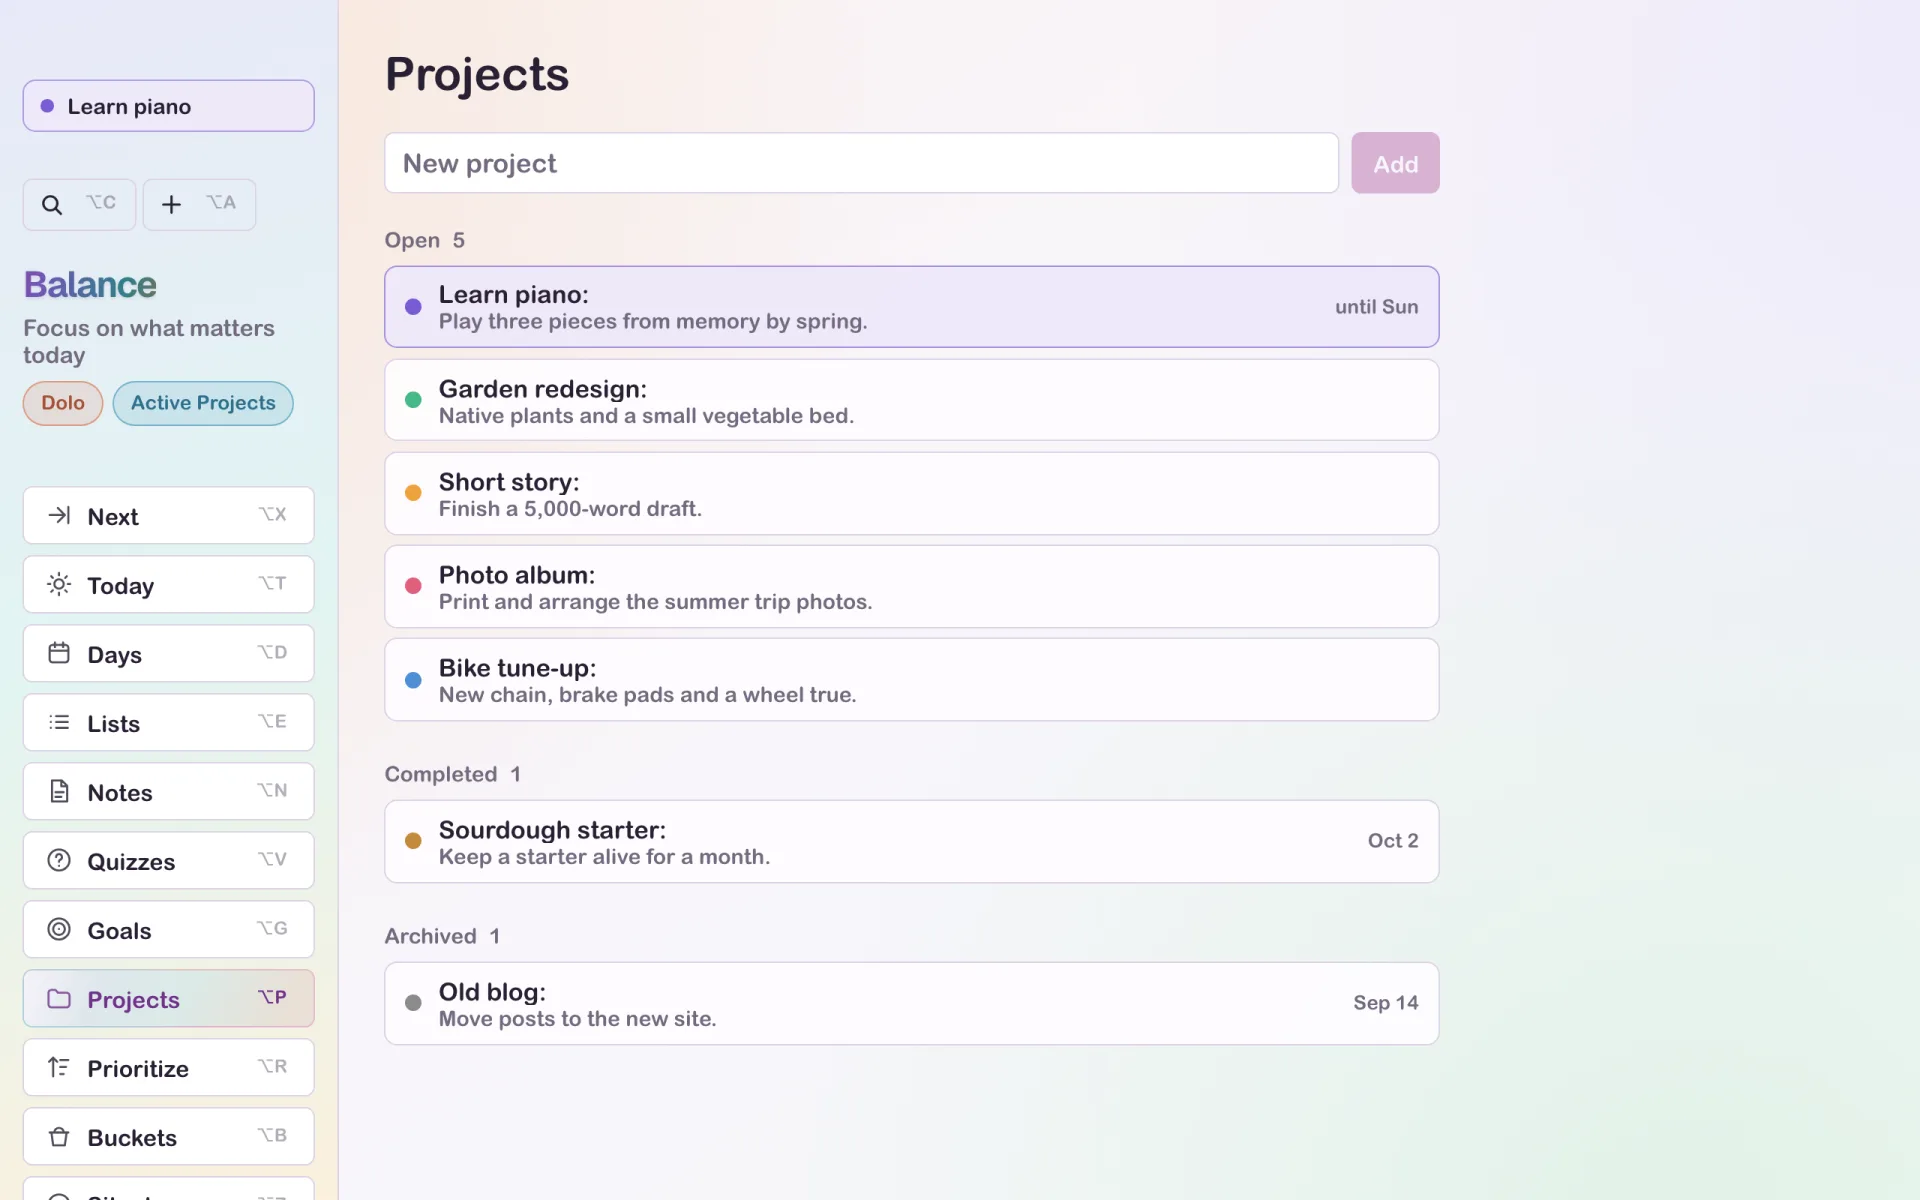
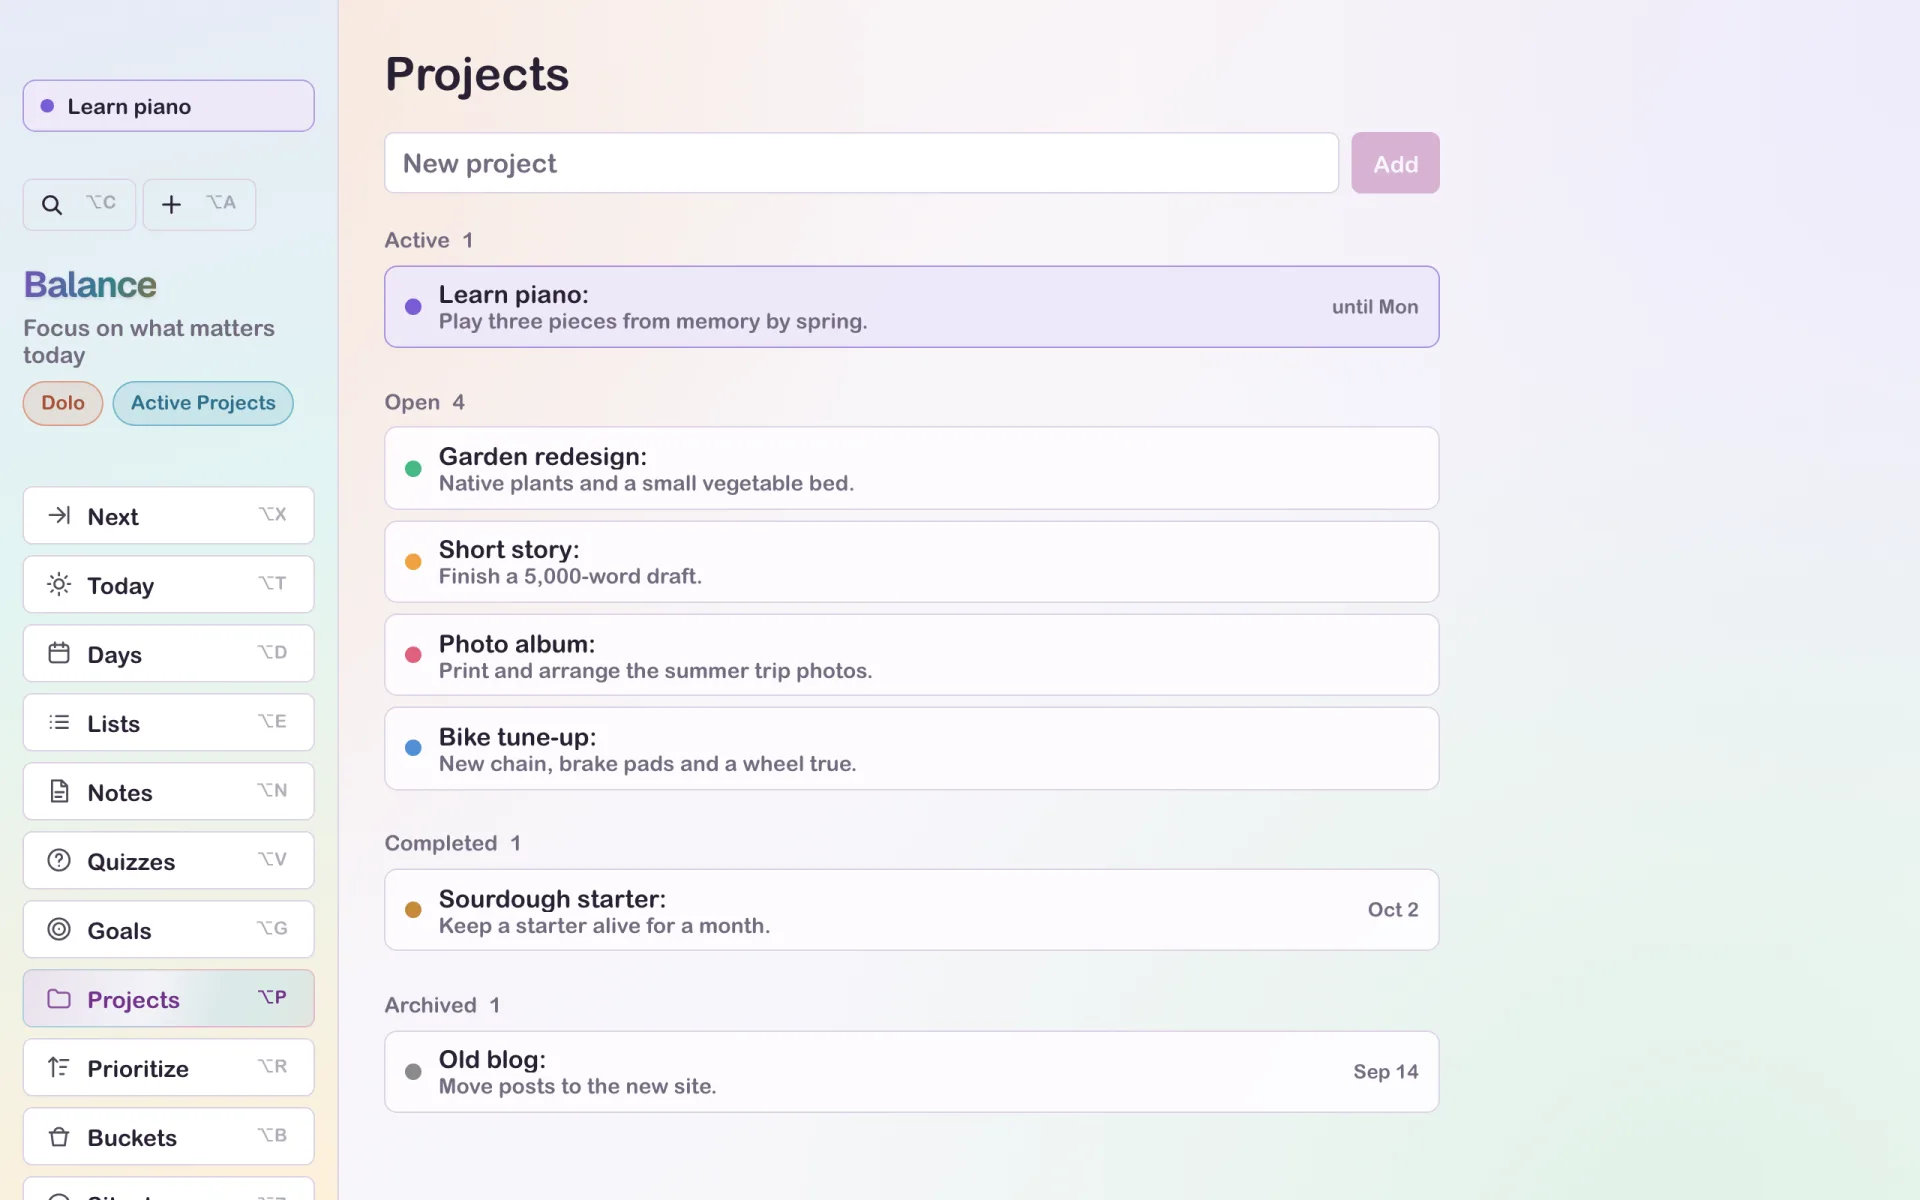
Projects: give active projects their own section above Open

diff --git a/src/lib/ProjectsPanel.svelte b/src/lib/ProjectsPanel.svelte
@@ -138,14 +138,19 @@
     />
     <button class="primary" type="submit" disabled={!name.trim()}>Add</button>
   </form>
-  <section class="project-section" aria-labelledby="open-projects-title">
-    <h3 id="open-projects-title">Open <span class="count">{open.length}</span></h3>
-    {#if active.length}
-      <div class="project-list" aria-label="Active projects" use:projectReordering={openProject}>{#each active as project (project.id)}<ProjectCard {project} active note={`until ${weekday(project.activeUntil!)}`} highlighted={highlightedId === project.id} onOpen={openProject} />{/each}</div>
-    {/if}
-    <div class="project-list" use:projectReordering={openProject}>{#each inactive as project (project.id)}<ProjectCard {project} highlighted={highlightedId === project.id} onOpen={openProject} />{/each}</div>
-    {#if !open.length}<p class="muted">None.</p>{/if}
-  </section>
+  {#if active.length}
+    <section class="project-section" aria-labelledby="active-projects-title">
+      <h3 id="active-projects-title">Active <span class="count">{active.length}</span></h3>
+      <div class="project-list" use:projectReordering={openProject}>{#each active as project (project.id)}<ProjectCard {project} active note={`until ${weekday(project.activeUntil!)}`} highlighted={highlightedId === project.id} onOpen={openProject} />{/each}</div>
+    </section>
+  {/if}
+  {#if inactive.length || !active.length}
+    <section class="project-section" aria-labelledby="open-projects-title">
+      <h3 id="open-projects-title">Open <span class="count">{inactive.length}</span></h3>
+      <div class="project-list" use:projectReordering={openProject}>{#each inactive as project (project.id)}<ProjectCard {project} highlighted={highlightedId === project.id} onOpen={openProject} />{/each}</div>
+      {#if !open.length}<p class="muted">None.</p>{/if}
+    </section>
+  {/if}
   {#if completed.length}
     <section class="project-section" aria-labelledby="completed-projects-title">
       <h3 id="completed-projects-title">Completed <span class="count">{completed.length}</span></h3>
@@ -225,7 +230,6 @@
   .project-section h3 { margin: 0 0 8px; font-size: 13px; font-weight: 600; color: var(--muted); }
   .project-section h3 .count { margin-left: 4px; font-weight: 400; font-variant-numeric: tabular-nums; }
   .project-list { position: relative; display: grid; gap: 6px; }
-  .project-list + .project-list:not(:empty) { margin-top: 6px; }
   .project-list :global(.project-card) { cursor: pointer; touch-action: pan-y; }
   .project-list :global(.project-card.project-dragging) { position: relative; z-index: 2; cursor: grabbing; box-shadow: 0 12px 32px rgba(0, 0, 0, .22); pointer-events: none; }
   .project-list :global(.project-card.project-settling) { position: relative; z-index: 2; }

diff --git a/tests/visual/projects.spec.ts b/tests/visual/projects.spec.ts
@@ -78,6 +78,8 @@ test('completed and archived projects move to dated sections and support undo, r
   await details.getByRole('textbox', { name: 'Description' }).blur()
   await details.getByRole('button', { name: 'Mark active', exact: true }).click()
   await details.getByRole('button', { name: '3 days', exact: true }).click()
+  await expect(page.locator('#active-projects-title')).toHaveText('Active 1')
+  await expect(open.locator('.project-card')).toHaveText(['Synthetic shed'])
   await details.getByRole('button', { name: 'Complete', exact: true }).click()
   await expect(details.getByText('Completed Sep 8')).toBeVisible()
   await details.getByRole('button', { name: 'Close', exact: true }).click()
